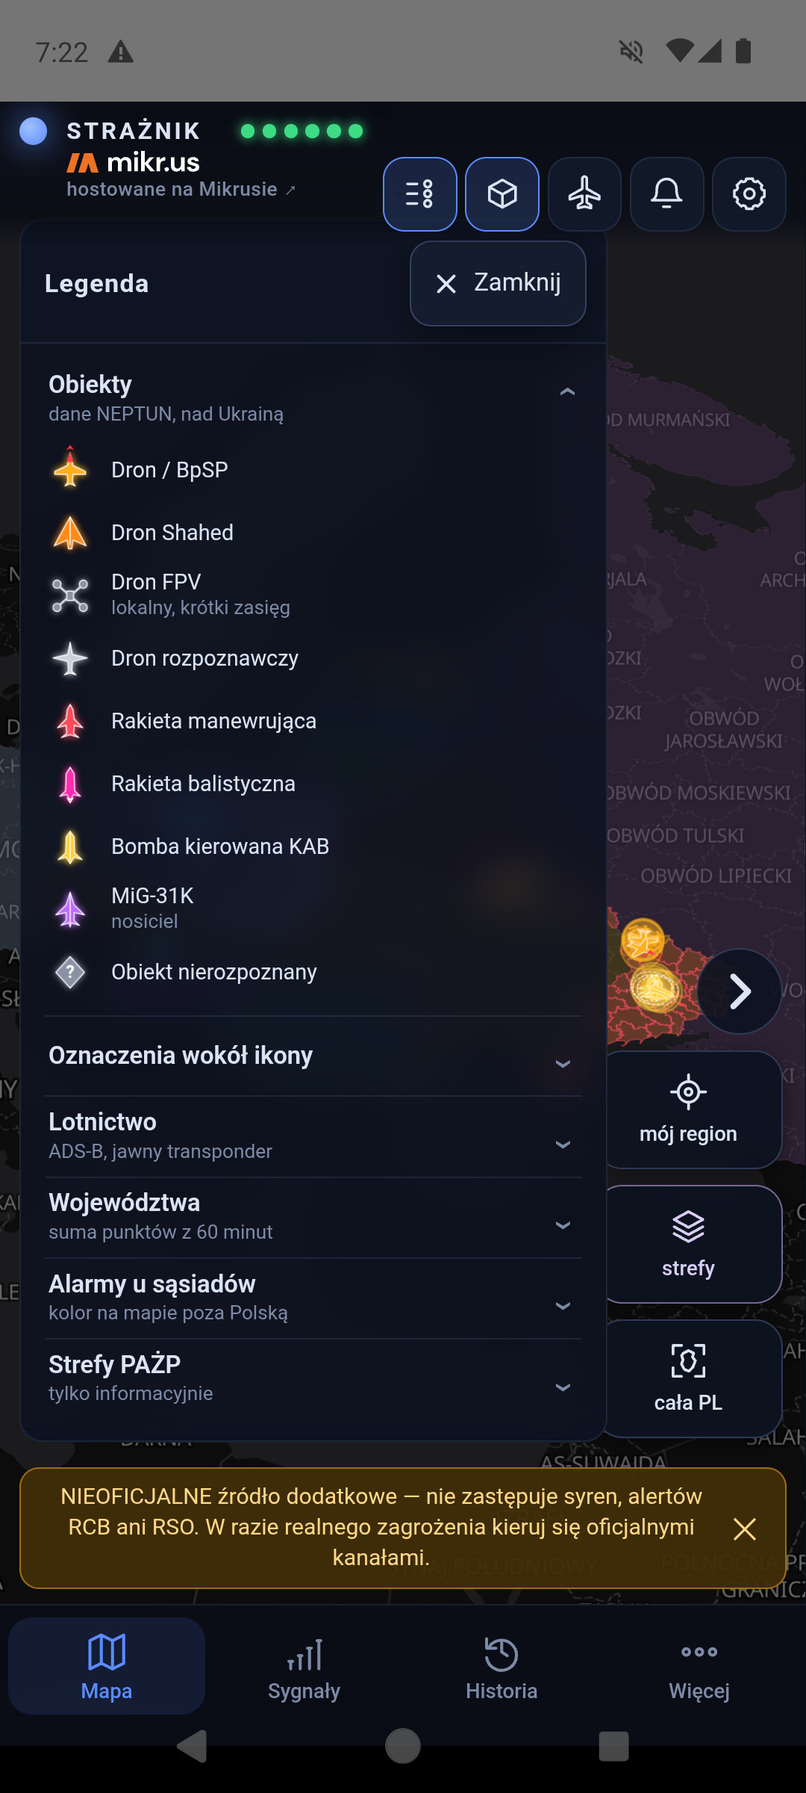
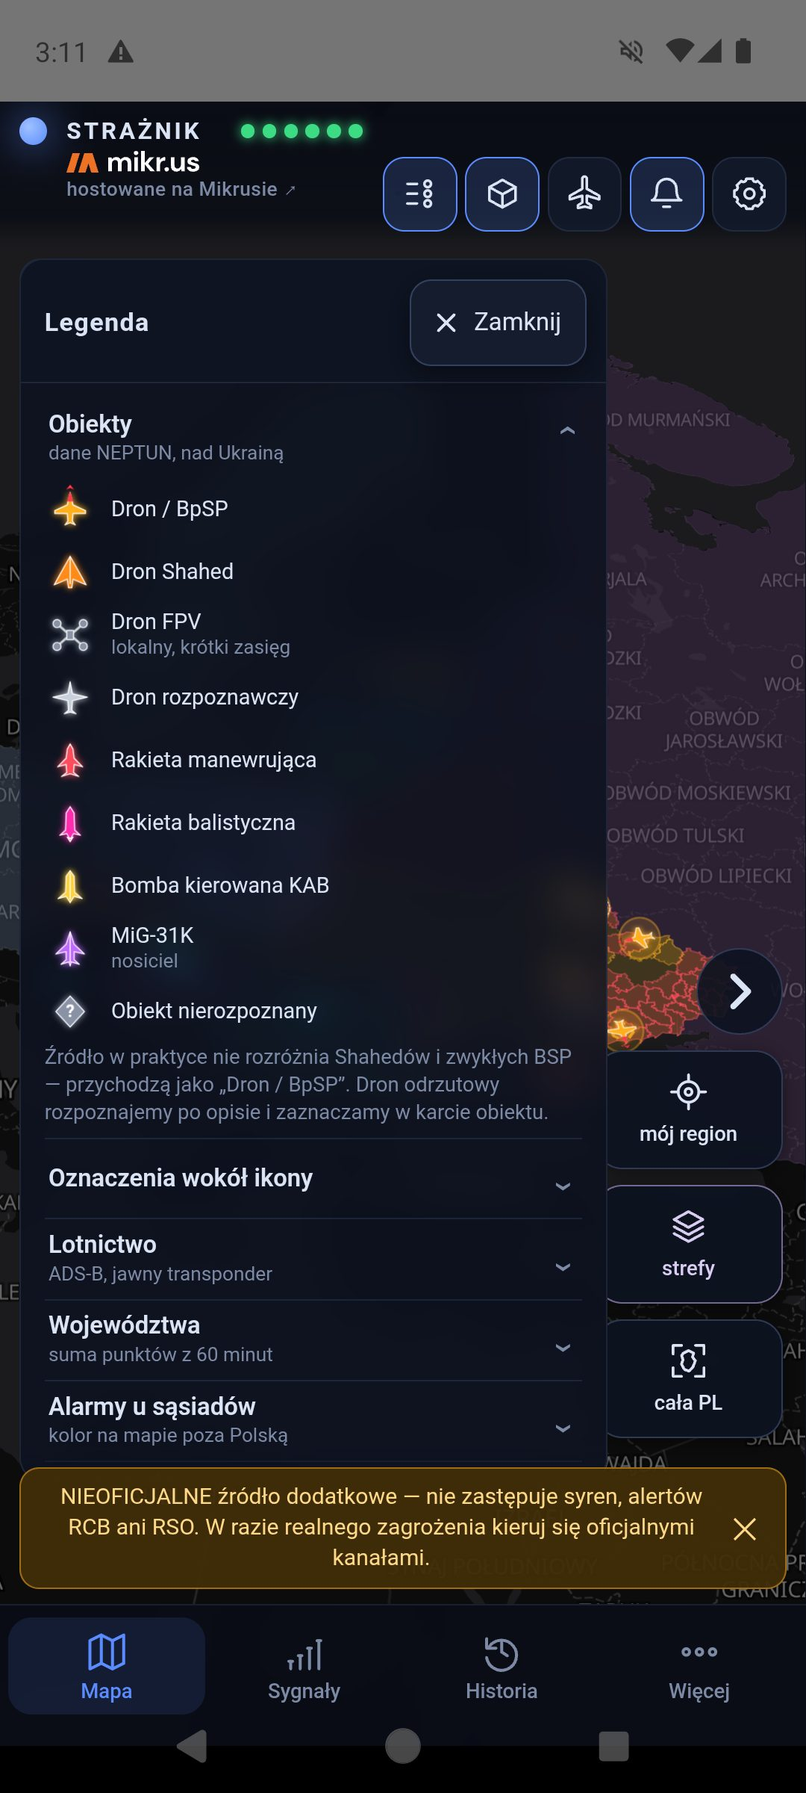
Zrzuty instrukcji do 1.7.90: zakladka Aplikacja i legenda w trzech jezykach
Szesc zrzutow z PODPISANEGO wydania 1.7.90 (versionCode 119), zrobionych na
emulatorze Pixel 7 z Androidem 14, w natywnym 1080x2400:

  set-aplikacja-pl/en/uk  — nowy wybor „Wielkosc tekstu" (Normalna / Wieksza /
                            Najwieksza) i zainstalowana wersja 1.7.90
  legend-pl/en/uk         — rozwinieta grupa Obiekty z nowa uwaga, ze zrodlo
                            w praktyce nie rozroznia Shahedow i zwyklych BSP

`legend2-*` zostaje bez zmian: pokazuje zwinieta grupe Obiekty i rozwiniete
Wojewodztwa, czyli kadr, ktorego ta zmiana nie dotyka. Nie wymieniamy zrzutow
bez potrzeby.

Teksty alternatywne opisuja to, co naprawde widac — razem z nazwami trzech
stopni wielkosci i trescia uwagi w legendzie. Zdanie o pochodzeniu zrzutow
rozdzielone: legenda i zakladka Aplikacja sa z 4 pazdziernika z wydania 1.7.90,
reszta zostaje z 3 pazdziernika z 1.7.89 i ze starszych dat. Numer wersji
podbity dopiero TERAZ, gdy zrzuty naprawde powstaly — wczesniej instrukcja
twierdzilaby, ze pokazuje 1.7.90, pokazujac 1.7.89.

Widoczna przy okazji poprawka rodzaju w ukrainskim: „Звичайний", nie
„Звичайна" — slownik tlumaczy „Normal" raz, a przy „розмір" potrzebny jest
rodzaj meski.

Komplet: 36 testow .cjs i 61 .py, w tym test_guide.py (63 zrzuty, trzy jezyki,
15 zgodnych rozdzialow, teksty alternatywne).

diff --git a/docs/uk.html b/docs/uk.html
@@ -38,7 +38,7 @@
     <h1>Ситуація на мапі.<br>Джерело за кожним сигналом.</h1>
     <p class="lead">Strażnik поєднує відкриту інформацію про повітряні загрози і показує бали для кожного воєводства Польщі. Працює на Android, на iPhone і у браузері.</p>
     <div class="actions"><a class="button primary" href="https://github.com/cukierrro/Straznik/releases/latest/download/Straznik.apk">↓ Завантажити для Android</a><a class="button primary" href="https://apps.apple.com/pl/app/id6813563009">↓ Завантажити для iOS</a><a class="button" href="https://straznik.eu">Відкрити мапу</a></div>
-    <p class="fineprint">Ця інструкція описує лише поточну версію 1.7.89. Знімки зроблено на Pixel 7 з Android 14, на живих даних: початковий екран, легенду, панель сигналів, аркуш Більше, вікно Джерела даних і всі чотири вкладки налаштувань — 3 жовтня 2026 року з підписаного випуску 1.7.89, на свіжому встановленні (тому немає збережених місць); картку об’єкта — 30 вересня 2026 року з підписаного випуску 1.7.87; решту — 13 і 23 вересня 2026 року. Що змінювалося від випуску до випуску — у <a href="zmiany-en.html" lang="en">списку змін</a> (польською та англійською). Торкніться знімка, щоб відкрити його в повному розмірі.</p>
+    <p class="fineprint">Ця інструкція описує лише поточну версію 1.7.90. Знімки зроблено на Pixel 7 з Android 14, на живих даних: легенду і вкладку налаштувань Застосунок — 4 жовтня 2026 року з підписаного випуску 1.7.90; початковий екран, панель сигналів, аркуш Більше, вікно Джерела даних і решту трьох вкладок налаштувань — 3 жовтня 2026 року з підписаного випуску 1.7.89, на свіжому встановленні (тому немає збережених місць); картку об’єкта — 30 вересня 2026 року з підписаного випуску 1.7.87; решту — 13 і 23 вересня 2026 року. Що змінювалося від випуску до випуску — у <a href="zmiany-en.html" lang="en">списку змін</a> (польською та англійською). Торкніться знімка, щоб відкрити його в повному розмірі.</p>
     <div class="note"><b>Про знімки в цій інструкції.</b> Більшість знімків зроблено 23 вересня 2026 року на емуляторі Pixel 7 з Android 14, у версії 1.7.76 <b>з українським інтерфейсом</b>, на живих даних. Кілька знімків — картки об'єктів і літаків, зони PAŻP на мапі та екран тривоги — поки що показують англійський інтерфейс; вони чекають на момент, коли на мапі буде що показати. Розташування кнопок і зміст екранів у них такі самі.</div>
     <p class="fineprint"><b>Користуєтесь iPhone?</b> Тривоги, дозволи й оновлення працюють там інакше — прочитайте <a href="iphone-en.html" lang="en">інструкцію для iPhone</a> (польською та англійською).</p>
     <p class="host-note"><img src="mikrus-logo.svg" alt="Mikrus" width="86" height="14">
@@ -83,7 +83,7 @@
       <p>Для звичайного оновлення можна вибрати <kbd>Пізніше</kbd>. Під час встановлення застосунок завантажує файл, перевіряє його контрольну суму SHA-256 і передає Android на підтвердження. Встановлюйте новий випуск поверх старого — налаштування й Мої місця зберігаються.</p>
       <div class="note"><b>Яка у вас версія?</b> <kbd>⚙</kbd> → вкладка <kbd>Застосунок</kbd> → «Встановлена версія». Найновіший випуск — <b>1.7.87</b>. Внизу вкладки є посилання на цю інструкцію, список змін і підтримку автора.</div>
     </div>
-    <figure><a class="shot-link" href="screens/1737/set-aplikacja-uk.jpg"><img loading="lazy" src="screens/1737/set-aplikacja-uk.jpg" width="1080" height="2400" alt="Налаштування, вкладка Застосунок: вибір мови, розділ Мапа: маршрути об’єктів, встановлена версія 1.7.90 та згорнуті розділи Як читати напрямок, Звідки беруться оновлення і Розширені"></a><figcaption><kbd>⚙</kbd> → <kbd>Застосунок</kbd>: мова, версія, оновлення.</figcaption></figure>
+    <figure><a class="shot-link" href="screens/1737/set-aplikacja-uk.jpg"><img loading="lazy" src="screens/1737/set-aplikacja-uk.jpg" width="1080" height="2400" alt="Налаштування, вкладка Застосунок: вибір мови, вибір розміру тексту (Звичайний, Більший, Найбільший), розділ Мапа: маршрути об’єктів, встановлена версія 1.7.90 та згорнуті розділи Як читати напрямок, Звідки беруться оновлення і Розширені"></a><figcaption><kbd>⚙</kbd> → <kbd>Застосунок</kbd>: мова, версія, оновлення.</figcaption></figure>
   </div>
 </section>
 
@@ -175,7 +175,7 @@
       <p>Легенду відкриває перший значок угорі, а закриває кнопка <kbd>✕ Закрити</kbd>
       в її заголовку. Шість груп розгортаються по одній — назви всіх видно одразу,
       тож щоб знайти один символ, не треба гортати цілу легенду.</p>
-    <figure><a class="shot-link" href="screens/1737/legend-uk.jpg"><img loading="lazy" src="screens/1737/legend-uk.jpg" width="1080" height="2400" alt="Легенда із заголовком і кнопкою ✕ Закрити: розгорнута група Об’єкти з дев’ятьма символами NEPTUN, нижче згорнуті групи Позначки навколо значка, Авіація, Воєводства, Тривоги в сусідніх країнах і Зони PAŻP"></a><figcaption>Легенда — перша іконка вгорі.</figcaption></figure>
+    <figure><a class="shot-link" href="screens/1737/legend-uk.jpg"><img loading="lazy" src="screens/1737/legend-uk.jpg" width="1080" height="2400" alt="Легенда із заголовком і кнопкою ✕ Закрити: розгорнута група Об’єкти з дев’ятьма символами NEPTUN і приміткою, що на практиці джерело не розрізняє «шахеди» і звичайні БпЛА, нижче згорнуті групи Позначки навколо значка, Авіація, Воєводства, Тривоги в сусідніх країнах і Зони PAŻP"></a><figcaption>Легенда — перша іконка вгорі.</figcaption></figure>
   </div>
   <h3 id="zdjecia">Картки об'єктів і літаків</h3>
   <p>Торкання об'єкта відкриває <b>міні-картку</b> в лівому нижньому куті й обводить об'єкт на мапі білим кільцем. Стрілка <kbd>⌃</kbd> розгортає картку, <kbd>⌄</kbd> згортає, <kbd>✕</kbd> закриває.</p>

diff --git a/docs/index.html b/docs/index.html
@@ -38,7 +38,7 @@
     <h1>Sytuacja na mapie.<br>Źródła za każdym sygnałem.</h1>
     <p class="lead">Strażnik łączy publiczne informacje o zagrożeniach z powietrza i pokazuje ich punktację dla polskich województw. Działa na Androidzie, na iPhonie i w przeglądarce.</p>
     <div class="actions"><a class="button primary" href="https://github.com/cukierrro/Straznik/releases/latest/download/Straznik.apk">↓ Pobierz na Androida</a><a class="button primary" href="https://apps.apple.com/pl/app/id6813563009">↓ Pobierz na iOS</a><a class="button" href="https://straznik.eu">Otwórz mapę</a></div>
-    <p class="fineprint">Instrukcja opisuje wyłącznie bieżącą wersję 1.7.89. Zrzuty wykonano na Pixelu 7 z Androidem 14, na żywych danych: ekran startowy, legendę, panel sygnałów, menu Więcej, okno Źródła danych i wszystkie cztery zakładki ustawień — 3 października 2026 z podpisanego wydania 1.7.89, na świeżej instalacji (stąd brak zapisanych miejsc); miniaturę karty i kartę obiektu 28 i 30 września 2026 z podpisanych wydań 1.7.84 i 1.7.87; pozostałe 13 i 23 września 2026. Co zmieniało się w kolejnych wydaniach, znajdziesz w <a href="zmiany.html">historii zmian</a>. Dotknij zdjęcia, aby otworzyć je w pełnym rozmiarze.</p>
+    <p class="fineprint">Instrukcja opisuje wyłącznie bieżącą wersję 1.7.90. Zrzuty wykonano na Pixelu 7 z Androidem 14, na żywych danych: legendę i zakładkę ustawień Aplikacja — 4 października 2026 z podpisanego wydania 1.7.90; ekran startowy, panel sygnałów, menu Więcej, okno Źródła danych i pozostałe trzy zakładki ustawień — 3 października 2026 z podpisanego wydania 1.7.89, na świeżej instalacji (stąd brak zapisanych miejsc); miniaturę karty i kartę obiektu 28 i 30 września 2026 z podpisanych wydań 1.7.84 i 1.7.87; pozostałe 13 i 23 września 2026. Co zmieniało się w kolejnych wydaniach, znajdziesz w <a href="zmiany.html">historii zmian</a>. Dotknij zdjęcia, aby otworzyć je w pełnym rozmiarze.</p>
     <p class="fineprint"><b>Masz iPhone'a?</b> Alarmy, zgody i aktualizacje działają tam inaczej — przeczytaj <a href="iphone.html">instrukcję dla iPhone'a</a>.</p>
     <p class="host-note"><img src="mikrus-logo.svg" alt="Mikrus" width="86" height="14">
       Serwer Strażnika zapewnia <a href="https://mikr.us">Mikrus</a> — dziękujemy za wsparcie projektu.</p>
@@ -82,7 +82,7 @@
       <p>Przy zwykłej aktualizacji możesz wybrać <kbd>Później</kbd>. Po wybraniu instalacji aplikacja pobiera plik, sprawdza jego sumę SHA-256 i przekazuje go Androidowi do zatwierdzenia. Instaluj nowe wydanie na istniejące — ustawienia i Moje miejsca zostają.</p>
       <div class="note"><b>Która wersja jest u Ciebie?</b> <kbd>⚙</kbd> → zakładka <kbd>Aplikacja</kbd> → „Zainstalowana wersja”. Najnowsze wydanie to <b>1.7.90</b>. Na dole zakładki są odnośniki do tej instrukcji, historii zmian i wsparcia autora.</div>
     </div>
-    <figure><a class="shot-link" href="screens/1737/set-aplikacja-pl.jpg"><img loading="lazy" src="screens/1737/set-aplikacja-pl.jpg" width="1080" height="2400" alt="Ustawienia, zakładka Aplikacja: wybór języka, sekcja Mapa: trasy obiektów, zainstalowana wersja 1.7.90 oraz zwinięte sekcje Jak czytać kierunek, Skąd biorą się aktualizacje i Zaawansowane"></a><figcaption><kbd>⚙</kbd> → <kbd>Aplikacja</kbd>: język, wersja, aktualizacje.</figcaption></figure>
+    <figure><a class="shot-link" href="screens/1737/set-aplikacja-pl.jpg"><img loading="lazy" src="screens/1737/set-aplikacja-pl.jpg" width="1080" height="2400" alt="Ustawienia, zakładka Aplikacja: wybór języka, wybór wielkości tekstu (Normalna, Większa, Największa), sekcja Mapa: trasy obiektów, zainstalowana wersja 1.7.90 oraz zwinięte sekcje Jak czytać kierunek, Skąd biorą się aktualizacje i Zaawansowane"></a><figcaption><kbd>⚙</kbd> → <kbd>Aplikacja</kbd>: język, wersja, aktualizacje.</figcaption></figure>
   </div>
 </section>
 
@@ -174,7 +174,7 @@
       <p>Legendę otwiera pierwsza ikona u góry, a zamyka przycisk <kbd>✕ Zamknij</kbd>
       w jej nagłówku. Sześć grup rozwija się pojedynczo — nazwy wszystkich widać naraz,
       więc nie trzeba przewijać całości, żeby znaleźć jeden symbol.</p>
-    <figure><a class="shot-link" href="screens/1737/legend-pl.jpg"><img loading="lazy" src="screens/1737/legend-pl.jpg" width="1080" height="2400" alt="Legenda z nagłówkiem i przyciskiem ✕ Zamknij: rozwinięta grupa Obiekty z dziewięcioma symbolami NEPTUN, pod nią zwinięte grupy Oznaczenia wokół ikony, Lotnictwo, Województwa, Alarmy u sąsiadów i Strefy PAŻP"></a><figcaption>Legenda — pierwsza ikona u góry.</figcaption></figure>
+    <figure><a class="shot-link" href="screens/1737/legend-pl.jpg"><img loading="lazy" src="screens/1737/legend-pl.jpg" width="1080" height="2400" alt="Legenda z nagłówkiem i przyciskiem ✕ Zamknij: rozwinięta grupa Obiekty z dziewięcioma symbolami NEPTUN i uwagą, że źródło w praktyce nie rozróżnia Shahedów i zwykłych BSP, pod nią zwinięte grupy Oznaczenia wokół ikony, Lotnictwo, Województwa, Alarmy u sąsiadów i Strefy PAŻP"></a><figcaption>Legenda — pierwsza ikona u góry.</figcaption></figure>
   </div>
   <h3 id="zdjecia">Karta obiektu i samolotu</h3>
   <p>Dotknięcie obiektu otwiera <b>miniaturę karty</b> w lewym dolnym rogu, a obiekt dostaje na mapie biały pierścień. Strzałka <kbd>⌃</kbd> rozwija kartę, <kbd>⌄</kbd> zwija, <kbd>✕</kbd> zamyka.</p>

diff --git a/docs/en.html b/docs/en.html
@@ -38,7 +38,7 @@
     <h1>The situation on a map.<br>The sources behind each signal.</h1>
     <p class="lead">Strażnik combines public information about airborne threats and shows a score for each Polish province. It runs on Android, on iPhone and in a web browser.</p>
     <div class="actions"><a class="button primary" href="https://github.com/cukierrro/Straznik/releases/latest/download/Straznik.apk">↓ Get it for Android</a><a class="button primary" href="https://apps.apple.com/pl/app/id6813563009">↓ Get it for iOS</a><a class="button" href="https://straznik.eu">Open the map</a></div>
-    <p class="fineprint">This guide describes only the current version, 1.7.89. Screenshots were taken on a Pixel 7 with Android 14, using live data: the start screen, the legend, the signals panel, the More sheet, the Data sources window and all four settings tabs on 3 October 2026 from the signed 1.7.89 release, on a fresh installation (hence no saved places); the card thumbnail and the object card on 28 and 30 September 2026 from the signed 1.7.84 and 1.7.87 releases; the rest on 13 and 23 September 2026. What changed from release to release is in the <a href="zmiany-en.html">changelog</a>. Tap a screenshot to open it full size.</p>
+    <p class="fineprint">This guide describes only the current version, 1.7.90. Screenshots were taken on a Pixel 7 with Android 14, using live data: the legend and the App settings tab on 4 October 2026 from the signed 1.7.90 release; the start screen, the signals panel, the More sheet, the Data sources window and the other three settings tabs on 3 October 2026 from the signed 1.7.89 release, on a fresh installation (hence no saved places); the card thumbnail and the object card on 28 and 30 September 2026 from the signed 1.7.84 and 1.7.87 releases; the rest on 13 and 23 September 2026. What changed from release to release is in the <a href="zmiany-en.html">changelog</a>. Tap a screenshot to open it full size.</p>
     <p class="fineprint"><b>Using an iPhone?</b> Alerts, permissions and updates work differently there — read the <a href="iphone-en.html">iPhone guide</a>.</p>
     <p class="host-note"><img src="mikrus-logo.svg" alt="Mikrus" width="86" height="14">
       Strażnik’s server is provided by <a href="https://mikr.us">Mikrus</a> — thank you for supporting the project.</p>
@@ -82,7 +82,7 @@
       <p>For an ordinary update you can choose <kbd>Later</kbd>. When you install, the app downloads the file, verifies its SHA-256 checksum and hands it to Android for confirmation. Install the new release over the old one — settings and My places are kept.</p>
       <div class="note"><b>Which version do you have?</b> <kbd>⚙</kbd> → <kbd>App</kbd> tab → “Installed version”. The latest release is <b>1.7.90</b>. At the bottom of the tab are links to this guide, the changelog and supporting the author.</div>
     </div>
-    <figure><a class="shot-link" href="screens/1737/set-aplikacja-en.jpg"><img loading="lazy" src="screens/1737/set-aplikacja-en.jpg" width="1080" height="2400" alt="Settings, App tab: language choice, the Map: object tracks section, installed version 1.7.90 and the collapsed sections How to read the direction, Where updates come from and Advanced"></a><figcaption><kbd>⚙</kbd> → <kbd>App</kbd>: language, version, updates.</figcaption></figure>
+    <figure><a class="shot-link" href="screens/1737/set-aplikacja-en.jpg"><img loading="lazy" src="screens/1737/set-aplikacja-en.jpg" width="1080" height="2400" alt="Settings, App tab: language choice, the text size choice (Normal, Larger, Largest), the Map: object tracks section, installed version 1.7.90 and the collapsed sections How to read the direction, Where updates come from and Advanced"></a><figcaption><kbd>⚙</kbd> → <kbd>App</kbd>: language, version, updates.</figcaption></figure>
   </div>
 </section>
 
@@ -174,7 +174,7 @@
       <p>The legend opens from the first icon at the top and closes with the
       <kbd>✕ Close</kbd> button in its header. Its six groups expand one at a time — you
       see every group name at once, so finding one symbol takes no scrolling.</p>
-    <figure><a class="shot-link" href="screens/1737/legend-en.jpg"><img loading="lazy" src="screens/1737/legend-en.jpg" width="1080" height="2400" alt="Legend with a header and a ✕ Close button: the Objects group expanded with nine NEPTUN symbols, below it the collapsed groups Markings around the icon, Aviation, Provinces, Alerts in neighbouring countries and PAŻP zones"></a><figcaption>Legend — the first icon at the top.</figcaption></figure>
+    <figure><a class="shot-link" href="screens/1737/legend-en.jpg"><img loading="lazy" src="screens/1737/legend-en.jpg" width="1080" height="2400" alt="Legend with a header and a ✕ Close button: the Objects group expanded with nine NEPTUN symbols and a note that in practice the source does not tell Shaheds and ordinary UAVs apart, below it the collapsed groups Markings around the icon, Aviation, Provinces, Alerts in neighbouring countries and PAŻP zones"></a><figcaption>Legend — the first icon at the top.</figcaption></figure>
   </div>
   <h3 id="zdjecia">Object and aircraft cards</h3>
   <p>Tapping an object opens a <b>mini card</b> in the bottom-left corner and puts a white ring around the object on the map. The <kbd>⌃</kbd> arrow expands the card, <kbd>⌄</kbd> collapses it, <kbd>✕</kbd> closes it.</p>
